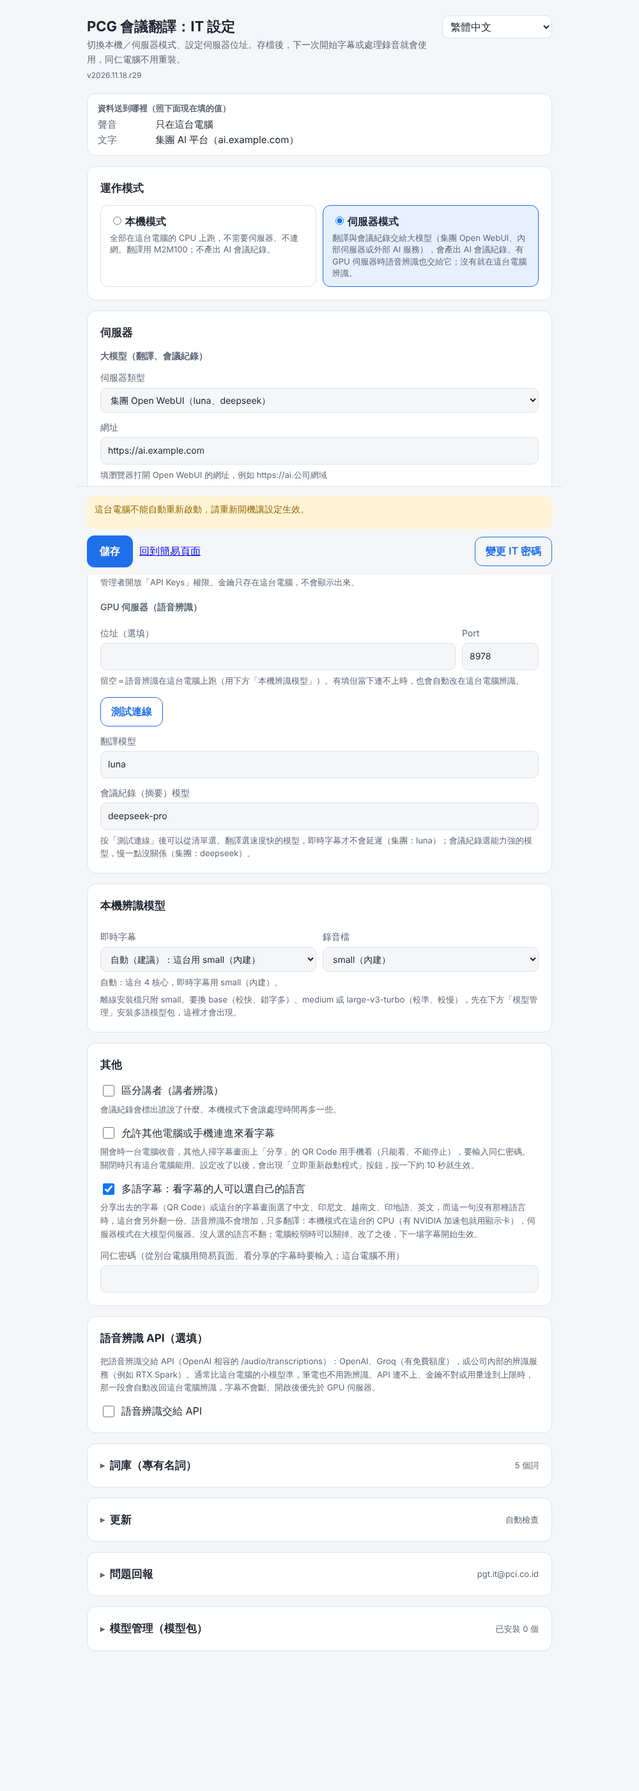
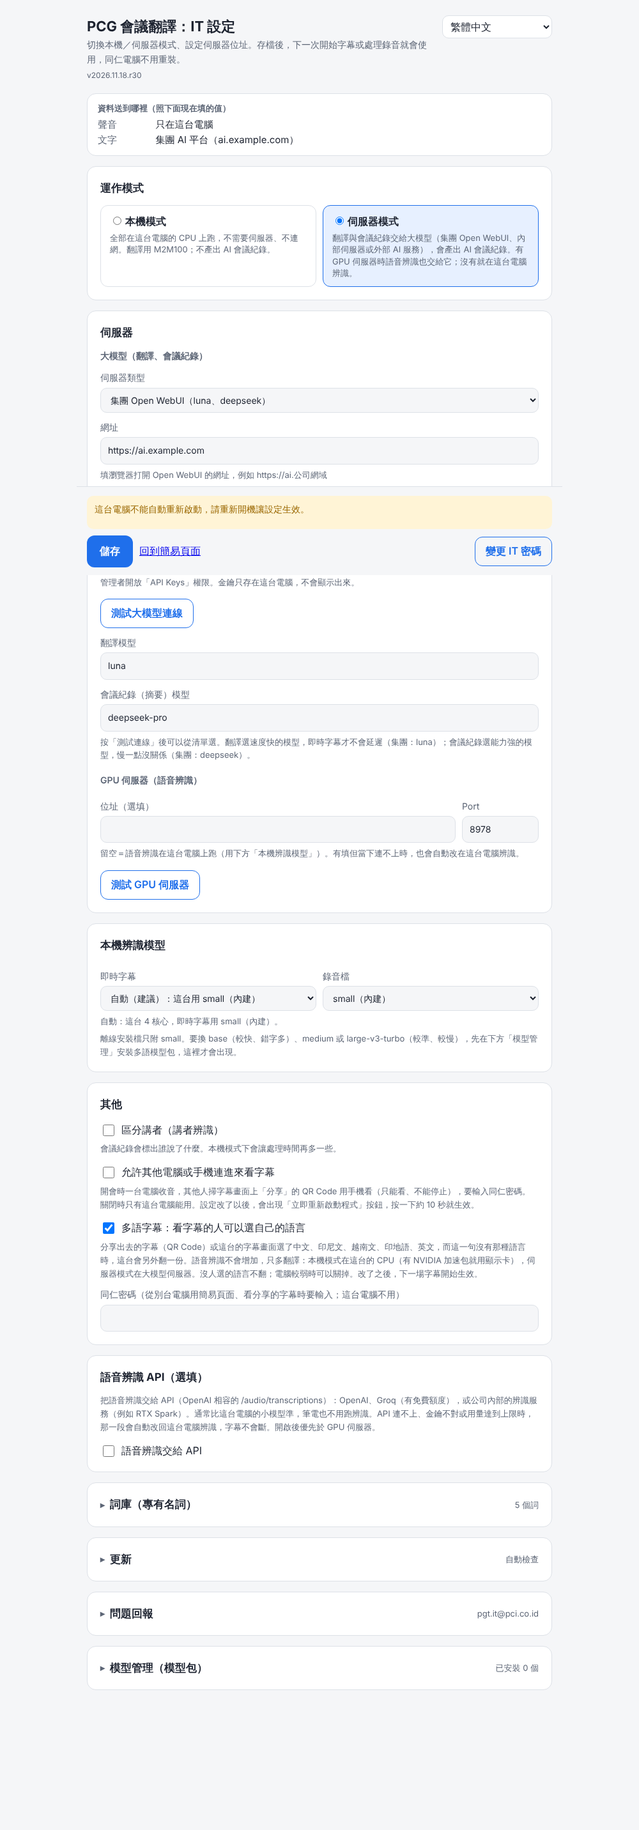
PCG：r30——字幕進行中也能回首頁、停止確認與改密碼改成頁面內的視窗、測試連線分成兩顆
字幕頁
- 進行中也有「回到首頁」（原本只有字幕結束後才有，進行中回不去）
- 停止前的確認：頁面內的視窗，按鈕寫「繼續開會」「結束字幕」（原本是瀏覽器的確認視窗）
- 手機寬度的上方控制列收小；按鈕與選單至少 44 px 高
- 新字幕只新增或替換有變的那一句，不整段重畫
IT 設定頁
- 大模型、GPU 伺服器各自一顆測試按鈕；大模型測通後檢查填的模型名稱在不在清單裡
- 變更 IT 密碼：頁面內的視窗，不顯示明文、輸入兩次
- 連不到 GitHub 時用白話說明（不能上網的電腦這是正常的）
- 資料會送出公司的提醒用專屬的樣式；同仁頁面的資料去向那一行也是
說明：更新內容、README、四份使用情境、四份 IT 必讀、截圖

Claude-Session: https://claude.ai/code/session_013JWUDCjzPbtqW6539dEAnK

diff --git a/group/live.html b/group/live.html
@@ -81,7 +81,13 @@ dialog::backdrop{background:rgba(0,0,0,.5)}
 .ul-connecting .o1{animation:ul-connecting-cw calc(3.6s / var(--ul-speed,1)) linear calc(0s / var(--ul-speed,1)) infinite;animation-play-state:var(--ul-play,running)}.ul-connecting .o2{animation:ul-connecting-ccw calc(2.16s / var(--ul-speed,1)) linear calc(0s / var(--ul-speed,1)) infinite;animation-play-state:var(--ul-play,running)}@keyframes ul-connecting-cw{to{transform:rotate(360deg)}}@keyframes ul-connecting-ccw{to{transform:rotate(-360deg)}}
 /* ul-icons:end */
 [hidden]{display:none!important}
-@media (max-width:560px){.m{max-width:94%}header .mode{width:100%;order:9}}
+.ic,select{min-height:44px}.chk{min-height:44px;display:inline-flex;align-items:center}
+@media (max-width:560px){.m{max-width:94%}
+  /* r30：手機上方的控制列收成兩列（狀態＋語言與字級；這一場的語言），原本會排成四列、佔掉字幕的空間 */
+  header{gap:4px 8px;padding:8px 12px}header .st{font-size:15px}
+  .mylang span{display:none}.mylang select{max-width:40vw}
+  header .mode{order:9;font-size:12px}header .mode.xl{order:10}
+  footer{gap:8px;padding:8px 12px}}
 </style>
 </head>
 <body>
@@ -101,9 +107,18 @@ dialog::backdrop{background:rgba(0,0,0,.5)}
   <button class="btn ghost" id="modeBtn" type="button"></button>
   <button class="btn ghost" id="ovlBtn" type="button"></button>
   <button class="btn ghost" id="shareBtn" type="button"></button>
+  <a class="btn ghost" id="homeBtn" href="/simple" hidden></a>
   <label class="chk"><input type="checkbox" id="onlyMine"><span id="onlyMineL"></span></label>
   <span id="ver" class="ver" style="margin-left:auto"></span>
 </footer>
+
+<dialog id="stopDlg">
+  <h3 style="margin:0 0 8px" id="stopTitle"></h3>
+  <p class="note" id="stopText" style="margin:0 0 14px"></p>
+  <div style="display:flex;gap:8px;justify-content:flex-end;flex-wrap:wrap">
+    <button class="btn ghost" id="stopNo" type="button"></button><button class="btn stop" id="stopYes" type="button"></button>
+  </div>
+</dialog>
 
 <dialog id="pwDlg">
   <form method="dialog" id="pwForm">
@@ -135,23 +150,23 @@ function showVer(v){const e=document.getElementById('ver');if(!e||!v)return;
 
 const LANGS=[['zh','繁體中文'],['en','English'],['id','Bahasa Indonesia'],['vi','Tiếng Việt'],['hi','हिन्दी']];
 const I18N={
-zh:{pw_ok:'連線',pw_bad:'密碼不對，請再輸入一次',my_lang:"我要看",xl_on:"{l}由字幕機另外翻譯",xl_off:"這場字幕沒有{l}",share:'分享',share_title:'讓其他人用手機看字幕',share_scan:"用手機相機掃描，或在瀏覽器輸入下面的網址（要連同一個公司網路）。打開後在右上角選自己的語言：中文、印尼文、越南文、印地語、英文都可以。",share_copy:'複製網址',copied:'已複製',close:'關閉',share_pw:'打開時要輸入同仁密碼。',share_nopw:'注意：沒有設定同仁密碼，同一個網路上的人都看得到。請 IT 在設定頁設定。',share_off:'IT 還沒有開啟「允許其他電腦或手機連進來看字幕」。請 IT 到「IT 設定」開啟。',share_restart:'IT 已開啟分享，但程式要重新啟動一次才會生效。按下面的按鈕：字幕會先停止，約 10 秒後回到首頁，再按一次「開始」。',share_rs_btn:'停止字幕並重新啟動程式',share_rs_wait:'正在重新啟動，請稍候…',share_rs_done:'已重新啟動，回到首頁後再按一次「開始」。',share_rs_fail:'沒有自動重新啟動成功，請重新開機，或點桌面的「PCG 會議翻譯」。',share_rs_manual:'請重新開機，再點桌面的「PCG 會議翻譯」。',share_noip:'找不到這台電腦的網路位址，請確認有連上公司網路。',running:'字幕進行中',waiting:'等待字幕…',paused:'已暫停',ended:'字幕已結束',empty:'開始說話後，字幕會出現在這裡',stop:'停止',pause:'暫停',resume:'繼續',
+zh:{stop_title:'要結束這一場字幕嗎？',stop_text:'結束後字幕會停止，連進來看的人也會看到「字幕已結束」。',stop_no:'繼續開會',stop_yes:'結束字幕',pw_ok:'連線',pw_bad:'密碼不對，請再輸入一次',my_lang:"我要看",xl_on:"{l}由字幕機另外翻譯",xl_off:"這場字幕沒有{l}",share:'分享',share_title:'讓其他人用手機看字幕',share_scan:"用手機相機掃描，或在瀏覽器輸入下面的網址（要連同一個公司網路）。打開後在右上角選自己的語言：中文、印尼文、越南文、印地語、英文都可以。",share_copy:'複製網址',copied:'已複製',close:'關閉',share_pw:'打開時要輸入同仁密碼。',share_nopw:'注意：沒有設定同仁密碼，同一個網路上的人都看得到。請 IT 在設定頁設定。',share_off:'IT 還沒有開啟「允許其他電腦或手機連進來看字幕」。請 IT 到「IT 設定」開啟。',share_restart:'IT 已開啟分享，但程式要重新啟動一次才會生效。按下面的按鈕：字幕會先停止，約 10 秒後回到首頁，再按一次「開始」。',share_rs_btn:'停止字幕並重新啟動程式',share_rs_wait:'正在重新啟動，請稍候…',share_rs_done:'已重新啟動，回到首頁後再按一次「開始」。',share_rs_fail:'沒有自動重新啟動成功，請重新開機，或點桌面的「PCG 會議翻譯」。',share_rs_manual:'請重新開機，再點桌面的「PCG 會議翻譯」。',share_noip:'找不到這台電腦的網路位址，請確認有連上公司網路。',running:'字幕進行中',waiting:'等待字幕…',paused:'已暫停',ended:'字幕已結束',empty:'開始說話後，字幕會出現在這裡',stop:'停止',pause:'暫停',resume:'繼續',
   to_sub:'字幕模式',to_chat:'對話模式',overlay:'懸浮字幕',only_mine:'只顯示我的語言',back:'回到首頁',confirm_stop:'確定要停止字幕？',
   pw:'請輸入同仁密碼（向主持人或 IT 詢問）',reconnect:'連線中斷，重新連線中…',ovl_fail:'懸浮字幕開不起來',fail:'（翻譯失敗）',
   n_zh:'中文',n_en:'英文',n_ja:'日文',n_ko:'韓文',n_id:'印尼文',n_vi:'越南文',n_hi:'印地語',tr:'{a}轉錄'},
-en:{pw_ok:'Connect',pw_bad:'Wrong password. Please try again',my_lang:"I read",xl_on:"{l}: translated by the subtitle computer",xl_off:"No {l} in this session",share:'Share',share_title:'Let others watch on their phones',share_scan:"Scan with a phone camera, or type the address below in a browser (same company network). Then choose your language at the top right: Chinese, Indonesian, Vietnamese, Hindi or English.",share_copy:'Copy address',copied:'Copied',close:'Close',share_pw:'Viewers will be asked for the staff password.',share_nopw:'Note: no staff password is set, so anyone on the same network can watch. Ask IT to set one.',share_off:'IT has not turned on “Allow other computers and phones to view subtitles”. Ask IT to enable it in IT settings.',share_restart:'IT turned sharing on, but the program must restart once first. Press the button below: subtitles stop, and after about 10 seconds you return to the start page; press “Start” again.',share_rs_btn:'Stop subtitles and restart the program',share_rs_wait:'Restarting, please wait…',share_rs_done:'Restarted. On the start page, press “Start” again.',share_rs_fail:'The program did not restart by itself. Restart Windows, or click “PCG Meeting Translator” on the desktop.',share_rs_manual:'Restart Windows, then click “PCG Meeting Translator” on the desktop.',share_noip:'This computer has no network address. Check that it is connected to the company network.',running:'Subtitles running',waiting:'Waiting for subtitles…',paused:'Paused',ended:'Subtitles ended',empty:'Subtitles will appear here when someone speaks',stop:'Stop',pause:'Pause',resume:'Resume',
+en:{stop_title:'End this subtitle session?',stop_text:'Subtitles stop, and people who are watching will see “Subtitles ended”.',stop_no:'Keep going',stop_yes:'End subtitles',pw_ok:'Connect',pw_bad:'Wrong password. Please try again',my_lang:"I read",xl_on:"{l}: translated by the subtitle computer",xl_off:"No {l} in this session",share:'Share',share_title:'Let others watch on their phones',share_scan:"Scan with a phone camera, or type the address below in a browser (same company network). Then choose your language at the top right: Chinese, Indonesian, Vietnamese, Hindi or English.",share_copy:'Copy address',copied:'Copied',close:'Close',share_pw:'Viewers will be asked for the staff password.',share_nopw:'Note: no staff password is set, so anyone on the same network can watch. Ask IT to set one.',share_off:'IT has not turned on “Allow other computers and phones to view subtitles”. Ask IT to enable it in IT settings.',share_restart:'IT turned sharing on, but the program must restart once first. Press the button below: subtitles stop, and after about 10 seconds you return to the start page; press “Start” again.',share_rs_btn:'Stop subtitles and restart the program',share_rs_wait:'Restarting, please wait…',share_rs_done:'Restarted. On the start page, press “Start” again.',share_rs_fail:'The program did not restart by itself. Restart Windows, or click “PCG Meeting Translator” on the desktop.',share_rs_manual:'Restart Windows, then click “PCG Meeting Translator” on the desktop.',share_noip:'This computer has no network address. Check that it is connected to the company network.',running:'Subtitles running',waiting:'Waiting for subtitles…',paused:'Paused',ended:'Subtitles ended',empty:'Subtitles will appear here when someone speaks',stop:'Stop',pause:'Pause',resume:'Resume',
   to_sub:'Subtitle view',to_chat:'Chat view',overlay:'Floating subtitles',only_mine:'Only my language',back:'Back to home',confirm_stop:'Stop the subtitles?',
   pw:'Enter the staff password (ask the host or IT)',reconnect:'Connection lost, reconnecting…',ovl_fail:'Could not open floating subtitles',fail:'(translation failed)',
   n_zh:'Chinese',n_en:'English',n_ja:'Japanese',n_ko:'Korean',n_id:'Indonesian',n_vi:'Vietnamese',n_hi:'Hindi',tr:'{a} transcription'},
-id:{pw_ok:'Sambungkan',pw_bad:'Kata sandi salah. Coba lagi',my_lang:"Saya baca",xl_on:"{l}: diterjemahkan oleh komputer subtitle",xl_off:"Sesi ini tidak ada {l}",share:'Bagikan',share_title:'Biarkan orang lain menonton di ponsel',share_scan:"Pindai dengan kamera ponsel, atau ketik alamat di bawah di browser (jaringan perusahaan yang sama). Lalu pilih bahasa Anda di kanan atas: Mandarin, Indonesia, Vietnam, Hindi, atau Inggris.",share_copy:'Salin alamat',copied:'Tersalin',close:'Tutup',share_pw:'Penonton akan diminta kata sandi karyawan.',share_nopw:'Perhatian: kata sandi karyawan belum diatur, jadi siapa pun di jaringan yang sama bisa menonton. Minta IT mengaturnya.',share_off:'IT belum mengaktifkan “Izinkan komputer dan ponsel lain menonton subtitle”. Minta IT mengaktifkannya di Pengaturan IT.',share_restart:'IT sudah mengaktifkan berbagi, tetapi program harus dimulai ulang sekali. Tekan tombol di bawah: subtitle berhenti, sekitar 10 detik kemudian kembali ke halaman awal; tekan “Mulai” lagi.',share_rs_btn:'Hentikan subtitle dan mulai ulang program',share_rs_wait:'Sedang memulai ulang, harap tunggu…',share_rs_done:'Sudah dimulai ulang. Di halaman awal, tekan “Mulai” lagi.',share_rs_fail:'Program tidak berhasil dimulai ulang otomatis. Mulai ulang Windows, atau klik “Penerjemah Rapat PCG” di desktop.',share_rs_manual:'Mulai ulang Windows, lalu klik “Penerjemah Rapat PCG” di desktop.',share_noip:'Komputer ini tidak punya alamat jaringan. Pastikan terhubung ke jaringan perusahaan.',running:'Subtitle berjalan',waiting:'Menunggu subtitle…',paused:'Dijeda',ended:'Subtitle selesai',empty:'Subtitle akan muncul di sini saat ada yang berbicara',stop:'Berhenti',pause:'Jeda',resume:'Lanjut',
+id:{stop_title:'Akhiri sesi subtitle ini?',stop_text:'Subtitle akan berhenti, dan orang yang menonton akan melihat “Subtitle selesai”.',stop_no:'Lanjutkan rapat',stop_yes:'Akhiri subtitle',pw_ok:'Sambungkan',pw_bad:'Kata sandi salah. Coba lagi',my_lang:"Saya baca",xl_on:"{l}: diterjemahkan oleh komputer subtitle",xl_off:"Sesi ini tidak ada {l}",share:'Bagikan',share_title:'Biarkan orang lain menonton di ponsel',share_scan:"Pindai dengan kamera ponsel, atau ketik alamat di bawah di browser (jaringan perusahaan yang sama). Lalu pilih bahasa Anda di kanan atas: Mandarin, Indonesia, Vietnam, Hindi, atau Inggris.",share_copy:'Salin alamat',copied:'Tersalin',close:'Tutup',share_pw:'Penonton akan diminta kata sandi karyawan.',share_nopw:'Perhatian: kata sandi karyawan belum diatur, jadi siapa pun di jaringan yang sama bisa menonton. Minta IT mengaturnya.',share_off:'IT belum mengaktifkan “Izinkan komputer dan ponsel lain menonton subtitle”. Minta IT mengaktifkannya di Pengaturan IT.',share_restart:'IT sudah mengaktifkan berbagi, tetapi program harus dimulai ulang sekali. Tekan tombol di bawah: subtitle berhenti, sekitar 10 detik kemudian kembali ke halaman awal; tekan “Mulai” lagi.',share_rs_btn:'Hentikan subtitle dan mulai ulang program',share_rs_wait:'Sedang memulai ulang, harap tunggu…',share_rs_done:'Sudah dimulai ulang. Di halaman awal, tekan “Mulai” lagi.',share_rs_fail:'Program tidak berhasil dimulai ulang otomatis. Mulai ulang Windows, atau klik “Penerjemah Rapat PCG” di desktop.',share_rs_manual:'Mulai ulang Windows, lalu klik “Penerjemah Rapat PCG” di desktop.',share_noip:'Komputer ini tidak punya alamat jaringan. Pastikan terhubung ke jaringan perusahaan.',running:'Subtitle berjalan',waiting:'Menunggu subtitle…',paused:'Dijeda',ended:'Subtitle selesai',empty:'Subtitle akan muncul di sini saat ada yang berbicara',stop:'Berhenti',pause:'Jeda',resume:'Lanjut',
   to_sub:'Tampilan subtitle',to_chat:'Tampilan obrolan',overlay:'Subtitle mengambang',only_mine:'Hanya bahasa saya',back:'Kembali ke beranda',confirm_stop:'Hentikan subtitle?',
   pw:'Masukkan kata sandi karyawan (tanyakan pembawa acara atau IT)',reconnect:'Koneksi terputus, menyambung ulang…',ovl_fail:'Subtitle mengambang tidak bisa dibuka',fail:'(gagal diterjemahkan)',
   n_zh:'Mandarin',n_en:'Inggris',n_ja:'Jepang',n_ko:'Korea',n_id:'Indonesia',n_vi:'Vietnam',n_hi:'Hindi',tr:'Transkripsi {a}'},
-vi:{pw_ok:'Kết nối',pw_bad:'Sai mật khẩu. Hãy nhập lại',my_lang:"Tôi xem",xl_on:"{l}: do máy phụ đề dịch thêm",xl_off:"Phiên này không có {l}",share:'Chia sẻ',share_title:'Cho người khác xem trên điện thoại',share_scan:"Quét bằng camera điện thoại, hoặc nhập địa chỉ bên dưới vào trình duyệt (cùng mạng công ty). Sau đó chọn ngôn ngữ của bạn ở góc trên bên phải: tiếng Trung, Indonesia, Việt, Hindi hoặc Anh.",share_copy:'Sao chép địa chỉ',copied:'Đã sao chép',close:'Đóng',share_pw:'Người xem sẽ được yêu cầu nhập mật khẩu nhân viên.',share_nopw:'Lưu ý: chưa đặt mật khẩu nhân viên, nên ai cùng mạng cũng xem được. Hãy nhờ IT đặt mật khẩu.',share_off:'IT chưa bật “Cho phép máy tính và điện thoại khác xem phụ đề”. Hãy nhờ IT bật trong Cài đặt IT.',share_restart:'IT đã bật chia sẻ, nhưng chương trình cần khởi động lại một lần. Bấm nút bên dưới: phụ đề dừng, khoảng 10 giây sau quay về trang đầu; bấm “Bắt đầu” lại.',share_rs_btn:'Dừng phụ đề và khởi động lại chương trình',share_rs_wait:'Đang khởi động lại, vui lòng chờ…',share_rs_done:'Đã khởi động lại. Ở trang đầu, bấm “Bắt đầu” lại.',share_rs_fail:'Chương trình không tự khởi động lại được. Hãy khởi động lại Windows, hoặc bấm “Phiên dịch cuộc họp PCG” trên màn hình.',share_rs_manual:'Hãy khởi động lại Windows, rồi bấm “Phiên dịch cuộc họp PCG” trên màn hình.',share_noip:'Máy này không có địa chỉ mạng. Hãy kiểm tra kết nối mạng công ty.',running:'Đang hiện phụ đề',waiting:'Đang chờ phụ đề…',paused:'Đã tạm dừng',ended:'Phụ đề đã kết thúc',empty:'Phụ đề sẽ hiện ở đây khi có người nói',stop:'Dừng',pause:'Tạm dừng',resume:'Tiếp tục',
+vi:{stop_title:'Kết thúc phiên phụ đề này?',stop_text:'Phụ đề sẽ dừng, và những người đang xem sẽ thấy “Phụ đề đã kết thúc”.',stop_no:'Tiếp tục họp',stop_yes:'Kết thúc phụ đề',pw_ok:'Kết nối',pw_bad:'Sai mật khẩu. Hãy nhập lại',my_lang:"Tôi xem",xl_on:"{l}: do máy phụ đề dịch thêm",xl_off:"Phiên này không có {l}",share:'Chia sẻ',share_title:'Cho người khác xem trên điện thoại',share_scan:"Quét bằng camera điện thoại, hoặc nhập địa chỉ bên dưới vào trình duyệt (cùng mạng công ty). Sau đó chọn ngôn ngữ của bạn ở góc trên bên phải: tiếng Trung, Indonesia, Việt, Hindi hoặc Anh.",share_copy:'Sao chép địa chỉ',copied:'Đã sao chép',close:'Đóng',share_pw:'Người xem sẽ được yêu cầu nhập mật khẩu nhân viên.',share_nopw:'Lưu ý: chưa đặt mật khẩu nhân viên, nên ai cùng mạng cũng xem được. Hãy nhờ IT đặt mật khẩu.',share_off:'IT chưa bật “Cho phép máy tính và điện thoại khác xem phụ đề”. Hãy nhờ IT bật trong Cài đặt IT.',share_restart:'IT đã bật chia sẻ, nhưng chương trình cần khởi động lại một lần. Bấm nút bên dưới: phụ đề dừng, khoảng 10 giây sau quay về trang đầu; bấm “Bắt đầu” lại.',share_rs_btn:'Dừng phụ đề và khởi động lại chương trình',share_rs_wait:'Đang khởi động lại, vui lòng chờ…',share_rs_done:'Đã khởi động lại. Ở trang đầu, bấm “Bắt đầu” lại.',share_rs_fail:'Chương trình không tự khởi động lại được. Hãy khởi động lại Windows, hoặc bấm “Phiên dịch cuộc họp PCG” trên màn hình.',share_rs_manual:'Hãy khởi động lại Windows, rồi bấm “Phiên dịch cuộc họp PCG” trên màn hình.',share_noip:'Máy này không có địa chỉ mạng. Hãy kiểm tra kết nối mạng công ty.',running:'Đang hiện phụ đề',waiting:'Đang chờ phụ đề…',paused:'Đã tạm dừng',ended:'Phụ đề đã kết thúc',empty:'Phụ đề sẽ hiện ở đây khi có người nói',stop:'Dừng',pause:'Tạm dừng',resume:'Tiếp tục',
   to_sub:'Chế độ phụ đề',to_chat:'Chế độ hội thoại',overlay:'Phụ đề nổi',only_mine:'Chỉ ngôn ngữ của tôi',back:'Về trang chính',confirm_stop:'Dừng phụ đề?',
   pw:'Nhập mật khẩu nhân viên (hỏi người chủ trì hoặc IT)',reconnect:'Mất kết nối, đang kết nối lại…',ovl_fail:'Không mở được phụ đề nổi',fail:'(dịch thất bại)',
   n_zh:'tiếng Trung',n_en:'tiếng Anh',n_ja:'tiếng Nhật',n_ko:'tiếng Hàn',n_id:'tiếng Indonesia',n_vi:'tiếng Việt',n_hi:'tiếng Hindi',tr:'Ghi {a}'},
-hi:{pw_ok:'जोड़ें',pw_bad:'पासवर्ड गलत है। दोबारा डालें',my_lang:"मैं पढ़ूँगा",xl_on:"{l}: सबटाइटल कंप्यूटर अलग से अनुवाद करेगा",xl_off:"इस सत्र में {l} नहीं है",share:'शेयर करें',share_title:'दूसरों को फ़ोन पर सबटाइटल दिखाएँ',share_scan:"फ़ोन कैमरे से स्कैन करें, या ब्राउज़र में नीचे का पता डालें (एक ही कंपनी नेटवर्क)। फिर ऊपर दाईं ओर अपनी भाषा चुनें: चीनी, इंडोनेशियाई, वियतनामी, हिंदी या अंग्रेज़ी।",share_copy:'पता कॉपी करें',copied:'कॉपी हो गया',close:'बंद करें',share_pw:'देखने वालों से कर्मचारी पासवर्ड पूछा जाएगा।',share_nopw:'ध्यान दें: कर्मचारी पासवर्ड सेट नहीं है, इसलिए एक ही नेटवर्क पर कोई भी देख सकता है। IT से सेट करवाएँ।',share_off:'IT ने “दूसरे कंप्यूटर और फ़ोन को सबटाइटल देखने दें” चालू नहीं किया है। IT से IT सेटिंग में चालू करवाएँ।',share_restart:'IT ने शेयरिंग चालू की है, लेकिन प्रोग्राम को एक बार दोबारा शुरू करना होगा। नीचे का बटन दबाएँ: सबटाइटल रुकेंगे, लगभग 10 सेकंड बाद शुरुआती पेज पर लौटेंगे; फिर “शुरू करें” दबाएँ।',share_rs_btn:'सबटाइटल रोकें और प्रोग्राम दोबारा शुरू करें',share_rs_wait:'दोबारा शुरू हो रहा है, कृपया रुकें…',share_rs_done:'दोबारा शुरू हो गया। शुरुआती पेज पर फिर “शुरू करें” दबाएँ।',share_rs_fail:'प्रोग्राम अपने आप दोबारा शुरू नहीं हुआ। Windows दोबारा शुरू करें, या डेस्कटॉप पर “PCG मीटिंग अनुवादक” पर क्लिक करें।',share_rs_manual:'Windows दोबारा शुरू करें, फिर डेस्कटॉप पर “PCG मीटिंग अनुवादक” पर क्लिक करें।',share_noip:'इस कंप्यूटर का नेटवर्क पता नहीं मिला। कंपनी नेटवर्क से कनेक्शन जाँचें।',running:'सबटाइटल चल रहे हैं',waiting:'सबटाइटल का इंतज़ार…',paused:'रुका हुआ',ended:'सबटाइटल बंद हो गए',empty:'कोई बोलेगा तो सबटाइटल यहाँ दिखेंगे',stop:'रोकें',pause:'विराम',resume:'जारी रखें',
+hi:{stop_title:'यह सबटाइटल सत्र खत्म करें?',stop_text:'सबटाइटल रुक जाएँगे, और देख रहे लोगों को “सबटाइटल खत्म” दिखेगा।',stop_no:'मीटिंग जारी रखें',stop_yes:'सबटाइटल खत्म करें',pw_ok:'जोड़ें',pw_bad:'पासवर्ड गलत है। दोबारा डालें',my_lang:"मैं पढ़ूँगा",xl_on:"{l}: सबटाइटल कंप्यूटर अलग से अनुवाद करेगा",xl_off:"इस सत्र में {l} नहीं है",share:'शेयर करें',share_title:'दूसरों को फ़ोन पर सबटाइटल दिखाएँ',share_scan:"फ़ोन कैमरे से स्कैन करें, या ब्राउज़र में नीचे का पता डालें (एक ही कंपनी नेटवर्क)। फिर ऊपर दाईं ओर अपनी भाषा चुनें: चीनी, इंडोनेशियाई, वियतनामी, हिंदी या अंग्रेज़ी।",share_copy:'पता कॉपी करें',copied:'कॉपी हो गया',close:'बंद करें',share_pw:'देखने वालों से कर्मचारी पासवर्ड पूछा जाएगा।',share_nopw:'ध्यान दें: कर्मचारी पासवर्ड सेट नहीं है, इसलिए एक ही नेटवर्क पर कोई भी देख सकता है। IT से सेट करवाएँ।',share_off:'IT ने “दूसरे कंप्यूटर और फ़ोन को सबटाइटल देखने दें” चालू नहीं किया है। IT से IT सेटिंग में चालू करवाएँ।',share_restart:'IT ने शेयरिंग चालू की है, लेकिन प्रोग्राम को एक बार दोबारा शुरू करना होगा। नीचे का बटन दबाएँ: सबटाइटल रुकेंगे, लगभग 10 सेकंड बाद शुरुआती पेज पर लौटेंगे; फिर “शुरू करें” दबाएँ।',share_rs_btn:'सबटाइटल रोकें और प्रोग्राम दोबारा शुरू करें',share_rs_wait:'दोबारा शुरू हो रहा है, कृपया रुकें…',share_rs_done:'दोबारा शुरू हो गया। शुरुआती पेज पर फिर “शुरू करें” दबाएँ।',share_rs_fail:'प्रोग्राम अपने आप दोबारा शुरू नहीं हुआ। Windows दोबारा शुरू करें, या डेस्कटॉप पर “PCG मीटिंग अनुवादक” पर क्लिक करें।',share_rs_manual:'Windows दोबारा शुरू करें, फिर डेस्कटॉप पर “PCG मीटिंग अनुवादक” पर क्लिक करें।',share_noip:'इस कंप्यूटर का नेटवर्क पता नहीं मिला। कंपनी नेटवर्क से कनेक्शन जाँचें।',running:'सबटाइटल चल रहे हैं',waiting:'सबटाइटल का इंतज़ार…',paused:'रुका हुआ',ended:'सबटाइटल बंद हो गए',empty:'कोई बोलेगा तो सबटाइटल यहाँ दिखेंगे',stop:'रोकें',pause:'विराम',resume:'जारी रखें',
   to_sub:'सबटाइटल व्यू',to_chat:'चैट व्यू',overlay:'तैरते सबटाइटल',only_mine:'केवल मेरी भाषा',back:'होम पर लौटें',confirm_stop:'सबटाइटल बंद करें?',
   pw:'कर्मचारी पासवर्ड डालें (होस्ट या IT से पूछें)',reconnect:'कनेक्शन टूटा, दोबारा जुड़ रहा है…',ovl_fail:'तैरते सबटाइटल नहीं खुल सके',fail:'(अनुवाद असफल)',
   n_zh:'चीनी',n_en:'अंग्रेज़ी',n_ja:'जापानी',n_ko:'कोरियाई',n_id:'इंडोनेशियाई',n_vi:'वियतनामी',n_hi:'हिंदी',tr:'{a} ट्रांसक्रिप्शन'}};
@@ -196,14 +211,23 @@ function pick(ev){
   if(b.lang===lang)return [b,a];
   return [b,a];
 }
+let drawn=[];          // 目前畫在畫面上的每一句（比對用）
 function render(){
   const box=$('msgs');
-  if(!events.length){box.innerHTML=`<div class="empty">${state.running&&!state.ended&&!state.paused?ULI.listen:''}${esc(t('empty'))}</div>`;return}
-  box.innerHTML=events.map(ev=>{
+  if(!events.length){drawn=[];box.innerHTML=`<div class="empty">${state.running&&!state.ended&&!state.paused?ULI.listen:''}${esc(t('empty'))}</div>`;return}
+  const htmls=events.map(ev=>{
     const [p,s]=pick(ev),me=ev.source==='mic';
     const sec=s&&!onlyMine?`<div class="s"><span class="tag">${esc(s.tag)}</span>${esc(s.text)}</div>`:'';
     return `<div class="m${me?' me':''}"><div class="t">${esc(ev.timestamp||'')}</div><div class="p"><span class="tag">${esc(p.tag)}</span>${esc(p.text==='（翻譯失敗）'?t('fail'):p.text)}</div>${sec}</div>`;
-  }).join('');
+  });
+  // r30：只換有變的那一句、把新的接在後面（原本每次整段重畫，螢幕閱讀器會重念、選取的文字會消失）
+  if(!drawn.length||htmls.length<drawn.length||box.children.length!==drawn.length)box.innerHTML=htmls.join('');
+  else{
+    const tmp=document.createElement('div');
+    for(let i=0;i<drawn.length;i++)if(drawn[i]!==htmls[i]){tmp.innerHTML=htmls[i];box.replaceChild(tmp.firstElementChild,box.children[i])}
+    if(htmls.length>drawn.length)box.insertAdjacentHTML('beforeend',htmls.slice(drawn.length).join(''));
+  }
+  drawn=htmls;
   const m=$('main');if(stick)m.scrollTop=m.scrollHeight;
 }
 /* 半句換整句（與 WebUI 同一條規則）：同一路 30 秒內、比較長、開頭大致相同 → 取代上一句 */
@@ -247,6 +271,8 @@ function paint(){
   $('shareBtn').textContent=t('share');
   for(const id of ['stopBtn','pauseBtn','ovlBtn'])$(id).hidden=!state.local||state.ended;
   $('shareBtn').hidden=!state.local;
+  // 進行中也能回首頁（r30；原本只有字幕結束後才有「回到首頁」）：字幕不會停，首頁上方會有「打開字幕畫面」
+  $('homeBtn').textContent=t('back');$('homeBtn').hidden=!state.local||state.ended;
   document.body.classList.toggle('sub',sub);document.documentElement.style.setProperty('--fs',fs+'px');
   $('onlyMine').checked=onlyMine;
 }
@@ -258,7 +284,11 @@ $('fsDn').onclick=()=>fsStep(-1);
 $('modeBtn').onclick=()=>{sub=!sub;store.set('pcg_live_sub',sub?'1':'0');paint();render()};
 $('onlyMine').onchange=()=>{onlyMine=$('onlyMine').checked;store.set('pcg_live_only',onlyMine?'1':'0');render()};
 $('ovlBtn').onclick=async()=>{try{const r=await(await fetch('/api/reopen-overlay',{method:'POST'})).json();if(!r.ok)alert(t('ovl_fail'))}catch(e){alert(t('ovl_fail'))}};
-$('stopBtn').onclick=()=>{if(confirm(t('confirm_stop')))send({action:'stop'})};
+// 停止前的確認：頁面內的視窗，按鈕直接寫要做的事（r30；原本是瀏覽器的確認視窗，按鈕只有「確定／取消」）
+$('stopBtn').onclick=()=>{$('stopTitle').textContent=t('stop_title');$('stopText').textContent=t('stop_text');
+  $('stopNo').textContent=t('stop_no');$('stopYes').textContent=t('stop_yes');$('stopDlg').showModal();$('stopNo').focus()};
+$('stopNo').onclick=()=>$('stopDlg').close();
+$('stopYes').onclick=()=>{$('stopDlg').close();send({action:'stop'})};
 $('pauseBtn').onclick=()=>{state.paused=!state.paused;send({action:state.paused?'pause':'resume'});paint()};
 
 /* 分享：QR Code＋網址（只在收音的這台電腦上） */

diff --git a/group/simple.html b/group/simple.html
@@ -28,7 +28,9 @@ body{margin:0;background:var(--bg);color:var(--text);
 header{display:flex;align-items:flex-start;justify-content:space-between;gap:12px;margin-bottom:20px}
 header h1{font-size:22px;margin:0;font-weight:700}
 header .sub{color:var(--dim);font-size:14px}
-header .scope{margin-top:4px}header .scope.ext{color:var(--warn,#9a6700);font-weight:600}
+header .scope{margin-top:4px}
+/* r30：資料會送出公司時，這一行用專屬的樣式（左邊粗色條），和「有新版本」這類一般提示區分開 */
+header .scope.ext{display:inline-block;margin-top:6px;padding:6px 10px;border-left:5px solid var(--warn,#9a6700);border-radius:8px;background:var(--warn-soft,#fff8e6);color:var(--warn,#9a6700);font-weight:700}
 .lang{flex:none;display:flex;align-items:center;gap:6px;color:var(--dim);font-size:14px}
 .lang select{font:inherit;color:var(--text);background:var(--card);border:1px solid var(--line);border-radius:10px;padding:6px 8px}
 .tabs{display:flex;flex-wrap:wrap;gap:0 16px;margin-bottom:20px;border-bottom:1px solid var(--line)}

diff --git a/group/tests/test_simple.py b/group/tests/test_simple.py
@@ -237,6 +237,28 @@ class SimpleFlow(unittest.TestCase):
         self.assertIn('id="rvWarn"', admin)
         self.assertNotIn("存檔後立即生效", admin)
 
+    def test_pages_keep_the_r30_guards(self):
+        """r30 的幾個保證：不再用瀏覽器內建的 confirm／prompt 做重要的事；字幕進行中也回得了首頁"""
+        live = (ROOT / "group" / "live.html").read_text(encoding="utf-8")
+        admin = (ROOT / "group" / "admin.html").read_text(encoding="utf-8")
+        simple = (ROOT / "group" / "simple.html").read_text(encoding="utf-8")
+        self.assertNotIn("confirm(", live)                         # 停止字幕：頁面內的視窗，按鈕寫要做的事
+        self.assertIn('id="stopDlg"', live)
+        self.assertEqual(live.count("stop_yes:"), 5)               # 五種語言都有
+        self.assertIn('id="homeBtn" href="/simple"', live)         # 進行中也有「回到首頁」
+        self.assertIn("$('homeBtn').hidden=!state.local||state.ended", live)
+        self.assertIn("box.replaceChild(", live)                   # 只換有變的那一句，不整段重畫
+        self.assertNotIn("prompt(", admin)                         # 改 IT 密碼：正式的欄位、輸入兩次
+        self.assertIn('type="password" id="cpAgain"', admin)
+        self.assertIn('id="testLlm"', admin)
+        self.assertIn('id="testGpu"', admin)
+        self.assertNotIn('id="testBtn"', admin)
+        self.assertIn("model_missing", admin)
+        self.assertIn("m_err_github", admin)
+        for wid in ("extWarn", "llmWarn", "asrWarn", "rvWarn"):
+            self.assertRegex(admin, r'id="%s" class="res warn out"' % wid)     # 外送提醒用專屬的樣式
+        self.assertIn("header .scope.ext{display:inline-block", simple)
+
     def test_version(self):
         """畫面上的版本：安裝檔寫的 group/version.json；原作者版本從 translate_meeting.py 讀"""
         simple_routes._VERSION.clear()

diff --git a/README.md b/README.md
@@ -131,6 +131,7 @@
 
 | 版本 | 日期 | 主要更新 |
 |---|---|---|
+| **r30** | 2026-11-18 | 紅隊審查的小改。字幕頁：進行中也有「回到首頁」（原本要等字幕結束才有，進行中回不去）；停止前的確認改成頁面內的視窗，按鈕寫「繼續開會」「結束字幕」；手機上方的控制列收小；新字幕只新增或替換有變的那一句，不再整段重畫。IT 設定頁：大模型和 GPU 伺服器各自一顆測試按鈕，大模型測通後會檢查填的模型名稱在不在清單裡；改 IT 密碼改成頁面內的視窗（不顯示明文、輸入兩次）；連不到 GitHub 時用白話說明；資料會送出公司的提醒改用專屬的樣式 |
 | **r29** | 2026-11-18 | 介面改版（依 6 位審查員的紅隊審查）。同仁頁面：場合的圖示改成內嵌的單色圖示、標籤改成短標題加一行說明；開始前顯示確認句（聽到什麼語言 → 字幕是什麼語言）；開過字幕之後收成「和上次一樣」的摘要卡；外語同仁預設選好「對方說中文 → 翻成我的語言」；沒選完時按鈕會說還差哪一步；第一次開啟（導覽）與字幕進行中不跳更新、顯示卡、模型的視窗。字幕頁：狀態用動態圖示（等聲音、重新連線才會動，字幕在跑時靜止）、密碼改成頁面內的視窗、會議室字幕機一開就是大字、字級改成 6 個檔位。IT 設定頁：頁首固定顯示聲音與文字送到哪裡；大模型類型選「內部伺服器」但位址是公司外部時，同仁頁面會顯示「公司外部」（原本只看類型）；不常改的區塊預設收合、儲存列固定在底部、開了遠端觀看卻沒有密碼時警告。動態圖示取自 [Ultra Lab Motion Icons](https://github.com/ppcvote/ultralab-anim-icons)（MIT），只內嵌用到的 8 個。宣傳影片的介面畫面跟著重拍 |
 | **r28** | 2026-11-18 | 「大家都說中文」可以用麥克風收音：場合選「同一間教室」或「會議室字幕機」時收麥克風（老師用自己的電腦或教室麥克風講課），選「我只看字幕」時照舊收電腦播放的聲音（字幕機加入 Teams 聽老師），畫面會寫清楚收的是哪一種；找不到麥克風時會直接說明，不會默默改收電腦的聲音。IT 設定頁「每種語言用哪個模型」加上「中文」，可以指定 Breeze ASR 25（原本少了這一列，按「套用模型設定」還會把中文的設定清掉）。使用情境與 IT 必讀新增「台灣用中文教學，外廠同仁用自己的語言看字幕」。安裝程式解壓縮 Python 改用 .NET，不再依賴 PowerShell 的 Expand-Archive（從 PowerShell 7 啟動安裝程式時會失敗）。r27 沒有發布：發布前的實際安裝測試抓到上面這個問題，修正後以 r28 發布 |
 | **r26** | 2026-11-18 | 語音辨識 API 多了 **Groq**（Whisper large-v3，有免費額度）：IT 設定頁按一下就填好網址與模型，貼上金鑰即可；程式先送 Groq，連不上、金鑰不對或免費用量達到上限（HTTP 429）時，那一段自動改回這台電腦辨識，並照 Groq 回覆的時間暫停後再試。安裝檔不再包含宣傳影片與截圖：小更新包從 37 MB 降到約 10 MB，完整安裝檔離 GitHub 單檔 2 GB 上限多出約 26 MB。修正 IT 設定頁語音辨識 API 的「模型」欄位標題 |

diff --git a/group/IT-GUIDE-vi.md b/group/IT-GUIDE-vi.md
@@ -388,6 +388,10 @@ Các bước cho nhân viên nằm ở tình huống 8 trong tài liệu tình h
 - **Chế độ cục bộ ẩn phần cài đặt máy chủ.**
 - **Bật xem từ xa mà chưa đặt mật khẩu nhân viên**: có cảnh báo màu cam dưới ô đánh dấu.
 - Tiêu đề trang trước đây ghi thay đổi có hiệu lực ngay; thực tế là từ lần phụ đề hoặc bản ghi tiếp theo. Câu chữ đã được sửa.
+- **Hai nút kiểm tra** (r30): “Test the LLM connection” và “Test the GPU server”, kết quả hiện ngay dưới từng nút. Sau khi kiểm tra LLM thành công, trang sẽ xem tên trong “Translation model” và “Minutes (summary) model” có trong danh sách của máy chủ hay không và cảnh báo nếu không có (gõ sai tên mô hình là nguyên nhân phổ biến nhất khiến phụ đề không được dịch).
+- **Đổi mật khẩu IT** (r30): cửa sổ ngay trên trang, không hiện ký tự, nhập hai lần; ít nhất 6 ký tự.
+- **Máy không có internet** (r30): mục Models hiện “This computer cannot reach GitHub right now, so only model packs in the company shared folder are listed”. Đây là bình thường, không phải lỗi.
+- **Cảnh báo dữ liệu ra khỏi công ty** (r30) có vạch cam dày bên trái để phân biệt với thông báo thường.
 
 ### Biểu tượng dùng trong giao diện (r29)
 

diff --git a/group/IT-GUIDE-id.md b/group/IT-GUIDE-id.md
@@ -388,6 +388,10 @@ Langkah untuk karyawan ada di skenario 8 pada contoh penggunaan. Satu komputer s
 - **Mode lokal menyembunyikan pengaturan server.**
 - **Menonton jarak jauh aktif tanpa kata sandi staf**: muncul peringatan oranye di bawah kotak centang.
 - Judul halaman sebelumnya menulis perubahan langsung berlaku; sebenarnya berlaku mulai subtitle atau rekaman berikutnya. Teksnya sudah diperbaiki.
+- **Dua tombol uji** (r30): “Uji koneksi LLM” dan “Uji server GPU”, masing-masing menampilkan hasil di bawahnya. Setelah uji LLM berhasil, halaman memeriksa apakah nama di “Model terjemahan” dan “Model notulen (ringkasan)” ada di daftar server dan memperingatkan jika tidak ada (salah ketik nama model adalah penyebab paling umum subtitle tidak diterjemahkan).
+- **Ganti kata sandi IT** (r30): jendela di halaman, isian tersembunyi, dimasukkan dua kali; minimal 6 karakter.
+- **Komputer tanpa internet** (r30): Model menampilkan “Komputer ini sedang tidak bisa menjangkau GitHub, jadi hanya paket model di folder bersama perusahaan yang ditampilkan”. Ini normal, bukan kesalahan.
+- **Peringatan bahwa data keluar dari perusahaan** (r30) memiliki garis oranye tebal di kiri, agar berbeda dari pemberitahuan biasa.
 
 ### Ikon yang dipakai di antarmuka (r29)
 

diff --git a/group/IT-GUIDE-en.md b/group/IT-GUIDE-en.md
@@ -386,6 +386,10 @@ The staff steps are in scenario 9 of the use cases. One subtitle computer joins 
 - **Local mode hides the server settings.**
 - **Remote viewing on without a staff password**: an orange warning appears under the checkbox.
 - The header used to say changes take effect immediately; in fact they apply from the next subtitles or recording. The text has been corrected.
+- **Two test buttons** (r30): “Test the LLM connection” and “Test the GPU server”, each showing its result below itself. After the LLM test succeeds, the page checks whether the names in “Translation model” and “Minutes (summary) model” are in the server’s list and warns if not (a mistyped model name is the most common reason subtitles are not translated).
+- **Change IT password** (r30): a window on the page, hidden input, entered twice; at least 6 characters.
+- **Computers without internet** (r30): Models shows “This computer cannot reach GitHub right now, so only model packs in the company shared folder are listed”. This is normal, not an error.
+- **Warnings that data leaves the company** (r30) have a thick orange bar on the left, to set them apart from ordinary notices.
 
 ### Icons used in the interface (r29)
 

diff --git a/group/USE-CASES-vi.md b/group/USE-CASES-vi.md
@@ -170,6 +170,8 @@ Tôi nói "Tiếng Việt" → "Chỉ đọc phụ đề" → "Tiếng Trung →
 - **Nút màu xám**: còn bước chưa chọn; bấm vào, trang sẽ cho biết còn thiếu bước nào.
 - **Biểu tượng micro ở góc trên bên trái màn hình phụ đề**: chuyển động khi chương trình đang nghe mà chưa ai nói, đứng yên khi phụ đề đang hiện. Biểu tượng kết nối màu cam nghĩa là mất kết nối và đang kết nối lại.
 - **Máy phụ đề phòng họp**: mở ra là chế độ phụ đề chữ lớn; dùng A−/A+ ở góc trên bên phải để đổi từng cỡ chữ.
+- **Quay về trang chính khi phụ đề đang chạy** (r30): cuối màn hình phụ đề có nút “Về trang chính”. Phụ đề không dừng; phía trên trang chính sẽ có nút để mở lại màn hình phụ đề.
+- **Bấm “Dừng”** (r30): trang hỏi “Tiếp tục họp” hay “Kết thúc phụ đề”, nên bấm nhầm cũng không dừng ngay.
 - **Lần đầu mở trang** chỉ có phần hướng dẫn; gợi ý cập nhật và cài đặt sẽ chờ lần sau, và không bao giờ hiện khi phụ đề đang chạy.
 
 ---

diff --git a/group/USE-CASES-en.md b/group/USE-CASES-en.md
@@ -176,6 +176,8 @@ I speak "your language" → "Only read subtitles" → "Chinese". Recognition run
 - **Grey button**: something is not chosen yet; press it and the page tells you which step is missing.
 - **Microphone icon at the top left of the subtitle screen**: it moves while the program is listening and nobody is speaking, and stays still while subtitles are appearing. An orange connection icon means the connection dropped and is being restored.
 - **Room subtitle computer**: opens in large yellow-on-black subtitle mode; use A−/A+ at the top right to change the size one step at a time.
+- **Going back to the home page while subtitles are running** (r30): the subtitle screen has “Back to home” at the bottom. Subtitles keep running; the home page then shows “Subtitles are running” and “Open subtitle screen” at the top to return.
+- **Pressing “Stop”** (r30): the page asks “Keep going” or “End subtitles”, so a mistaken press does not stop the session.
 - **First time you open the page** only the tour appears; the update and install suggestions wait until next time, and they never appear while subtitles are running.
 
 ---

diff --git a/group/USE-CASES-id.md b/group/USE-CASES-id.md
@@ -170,6 +170,8 @@ Saya berbicara "Bahasa Indonesia" → "Hanya baca subtitle" → "Mandarin → In
 - **Tombol berwarna abu-abu**: masih ada yang belum dipilih; tekan tombol itu dan halaman memberi tahu langkah mana yang kurang.
 - **Ikon mikrofon di kiri atas layar subtitle**: bergerak saat program mendengarkan dan belum ada yang berbicara, diam saat subtitle sedang muncul. Ikon sambungan berwarna oranye berarti koneksi terputus dan sedang disambung ulang.
 - **Komputer subtitle**: langsung terbuka dalam mode subtitle huruf besar; pakai A−/A+ di kanan atas untuk mengubah ukuran satu tingkat.
+- **Kembali ke beranda saat subtitle berjalan** (r30): di bawah layar subtitle ada “Kembali ke beranda”. Subtitle tidak berhenti; di bagian atas beranda muncul tombol untuk membuka lagi layar subtitle.
+- **Menekan “Berhenti”** (r30): halaman menanyakan “Lanjutkan rapat” atau “Akhiri subtitle”, jadi salah tekan tidak langsung menghentikan sesi.
 - **Saat pertama kali membuka halaman** hanya panduan yang muncul; saran pembaruan dan pemasangan menunggu sampai lain kali, dan tidak pernah muncul saat subtitle berjalan.
 
 ---

diff --git a/group/INSTALL.md b/group/INSTALL.md
@@ -387,6 +387,10 @@ Sukabumi | Suka Bumi
 - **本機模式不顯示伺服器的設定**。
 - **允許別台連進來看字幕、卻沒有同仁密碼**：勾選下方會出現橘色警告。
 - 頁首原本寫「存檔後立即生效」，實際上是下一次開始字幕或處理錄音才使用，文字已更正。
+- **測試連線分成兩顆**（r30）：「測試大模型連線」和「測試 GPU 伺服器」，結果顯示在各自的按鈕下面。大模型測通之後，會檢查「翻譯模型」「會議紀錄模型」填的名稱在不在伺服器的清單裡，不在就提醒（名稱打錯是字幕沒有翻譯最常見的原因）。
+- **變更 IT 密碼**（r30）：改成頁面內的視窗，不顯示明文、要輸入兩次；至少 6 個字。
+- **不能上網的電腦**（r30）：模型管理顯示「這台電腦現在連不到 GitHub，下面只列出公司共用資料夾裡的模型包」，這是正常的，不是錯誤。
+- **資料會送出公司的提醒**（r30）：左邊有粗的橘色條，和一般的提示區分開。
 
 ### 介面用的圖示（r29）
 
